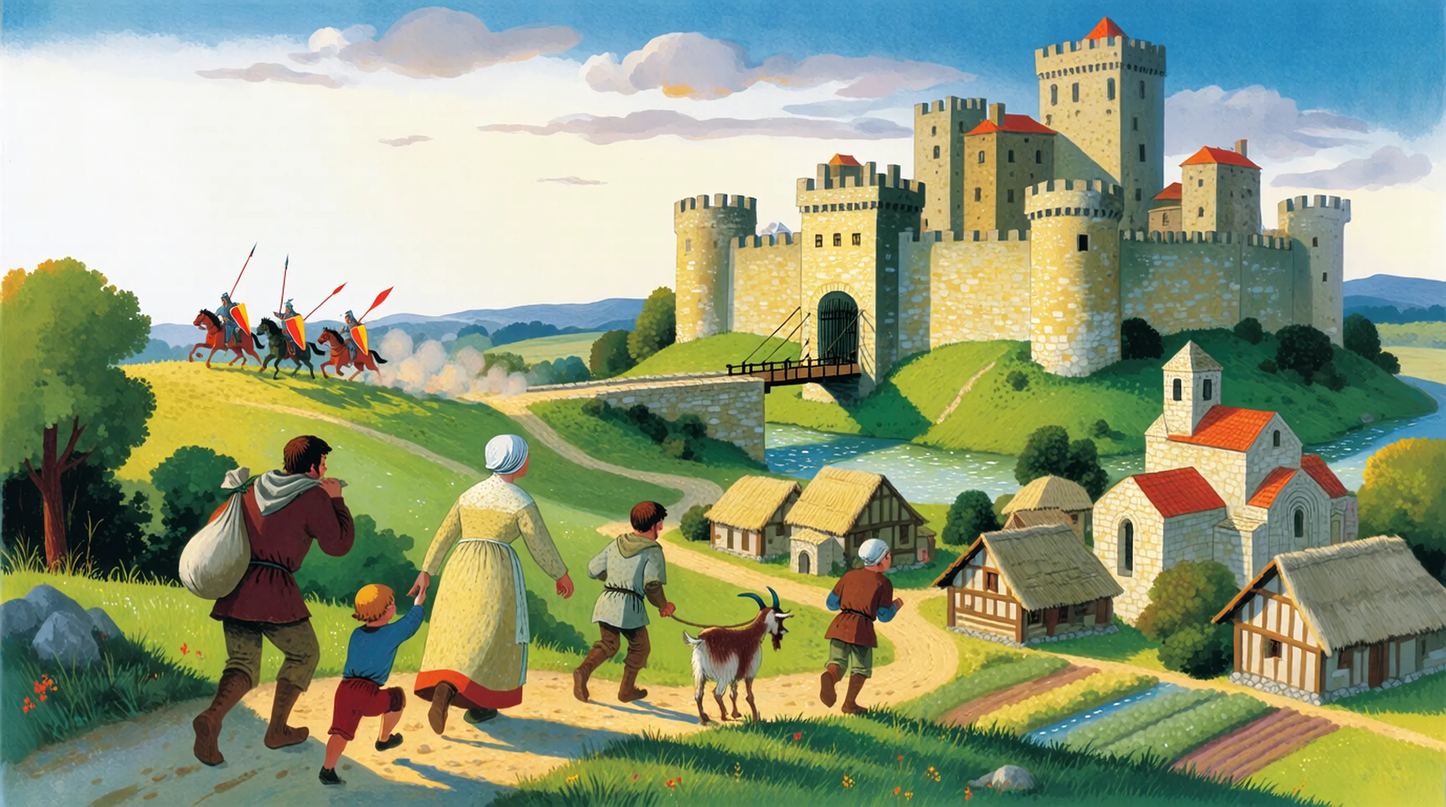
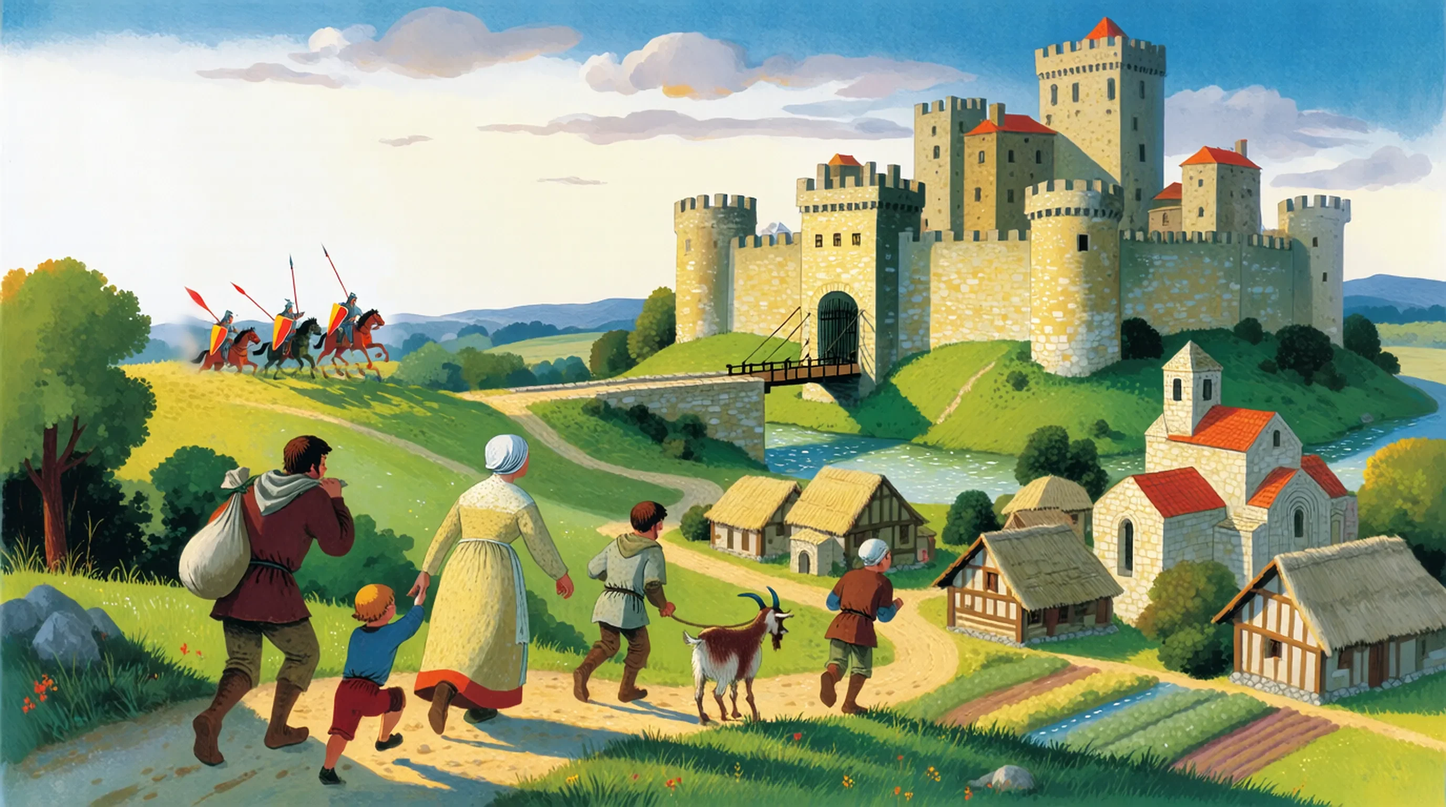
Ouverture : les cavaliers arrivent de l'horizon et vont vers le château

Changed region(s): [[0.125, 0.3125, 0.4062, 0.5]]

diff --git a/index.html b/index.html
@@ -6,8 +6,8 @@
 <title>Le Moyen Âge</title>
 <meta name="description" content="La vie dans une seigneurie, au temps des châteaux forts : la leçon d'histoire de CM1, à parcourir en défilant.">
 <meta name="robots" content="noindex">
-<link rel="stylesheet" href="css/lenis.css?v=8">
-<link rel="stylesheet" href="css/style.css?v=8">
+<link rel="stylesheet" href="css/lenis.css?v=9">
+<link rel="stylesheet" href="css/style.css?v=9">
 </head>
 <body>
 
@@ -51,12 +51,12 @@
 <script src="js/vendor/SplitText.min.js"></script>
 <script src="js/vendor/lenis.min.js"></script>
 <!-- Le site -->
-<script src="js/contenu.js?v=8"></script>
-<script src="js/outils.js?v=8"></script>
-<script src="js/dessins.js?v=8"></script>
-<script src="js/mise-en-scene.js?v=8"></script>
-<script src="js/defis.js?v=8"></script>
-<script src="js/voix.js?v=8"></script>
-<script src="js/moteur.js?v=8"></script>
+<script src="js/contenu.js?v=9"></script>
+<script src="js/outils.js?v=9"></script>
+<script src="js/dessins.js?v=9"></script>
+<script src="js/mise-en-scene.js?v=9"></script>
+<script src="js/defis.js?v=9"></script>
+<script src="js/voix.js?v=9"></script>
+<script src="js/moteur.js?v=9"></script>
 </body>
 </html>
